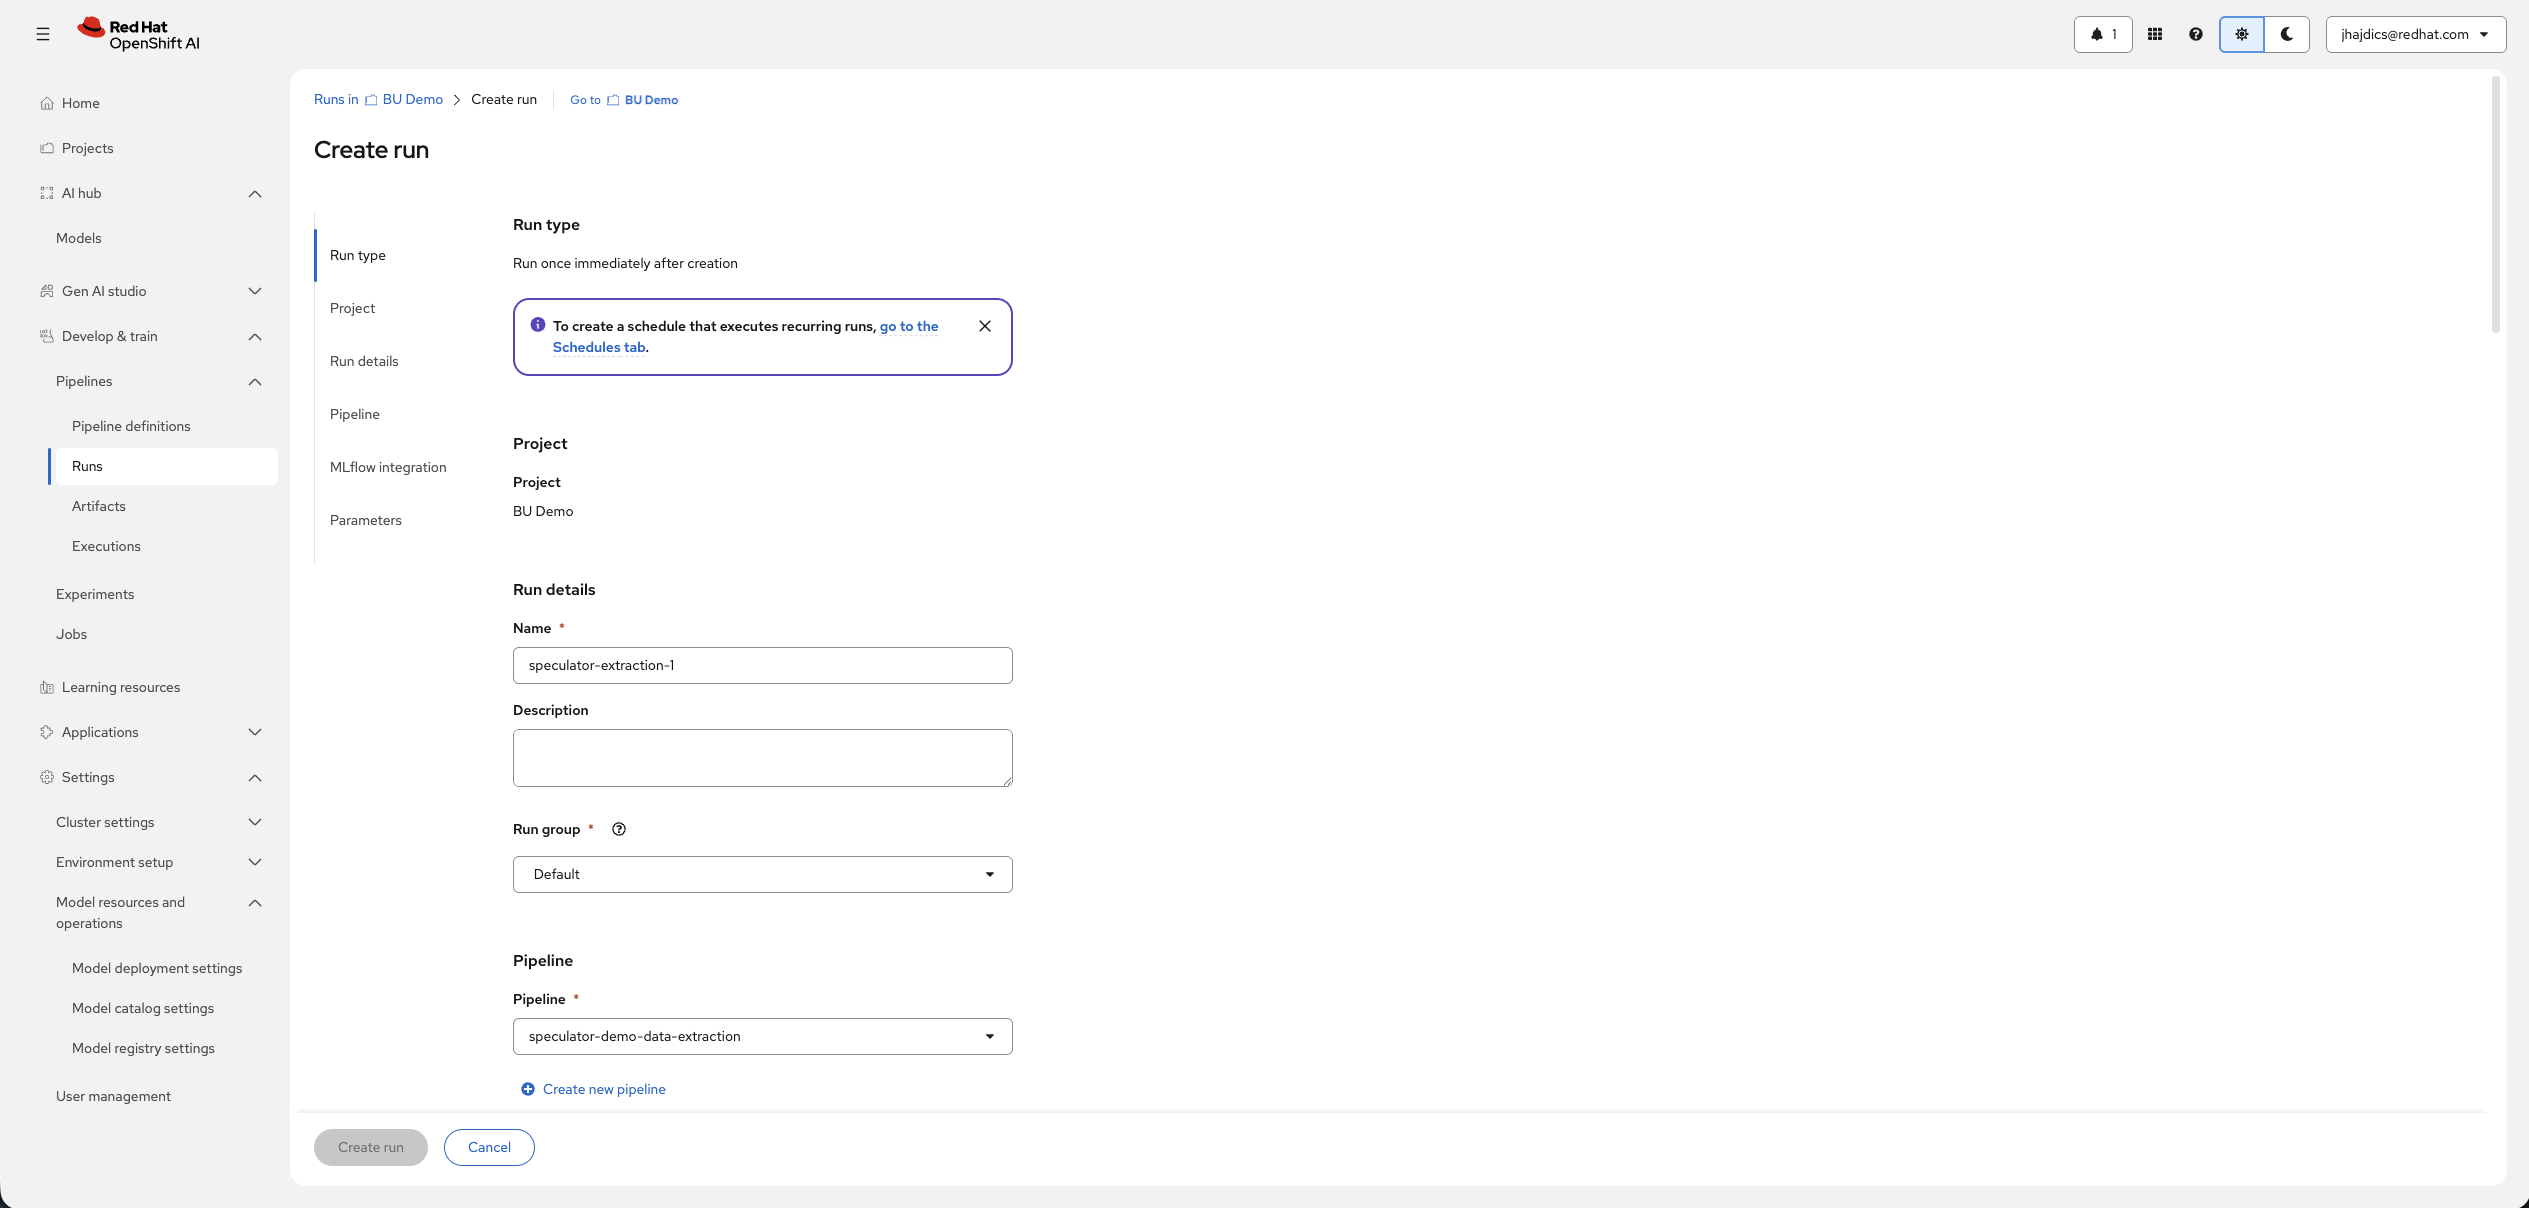
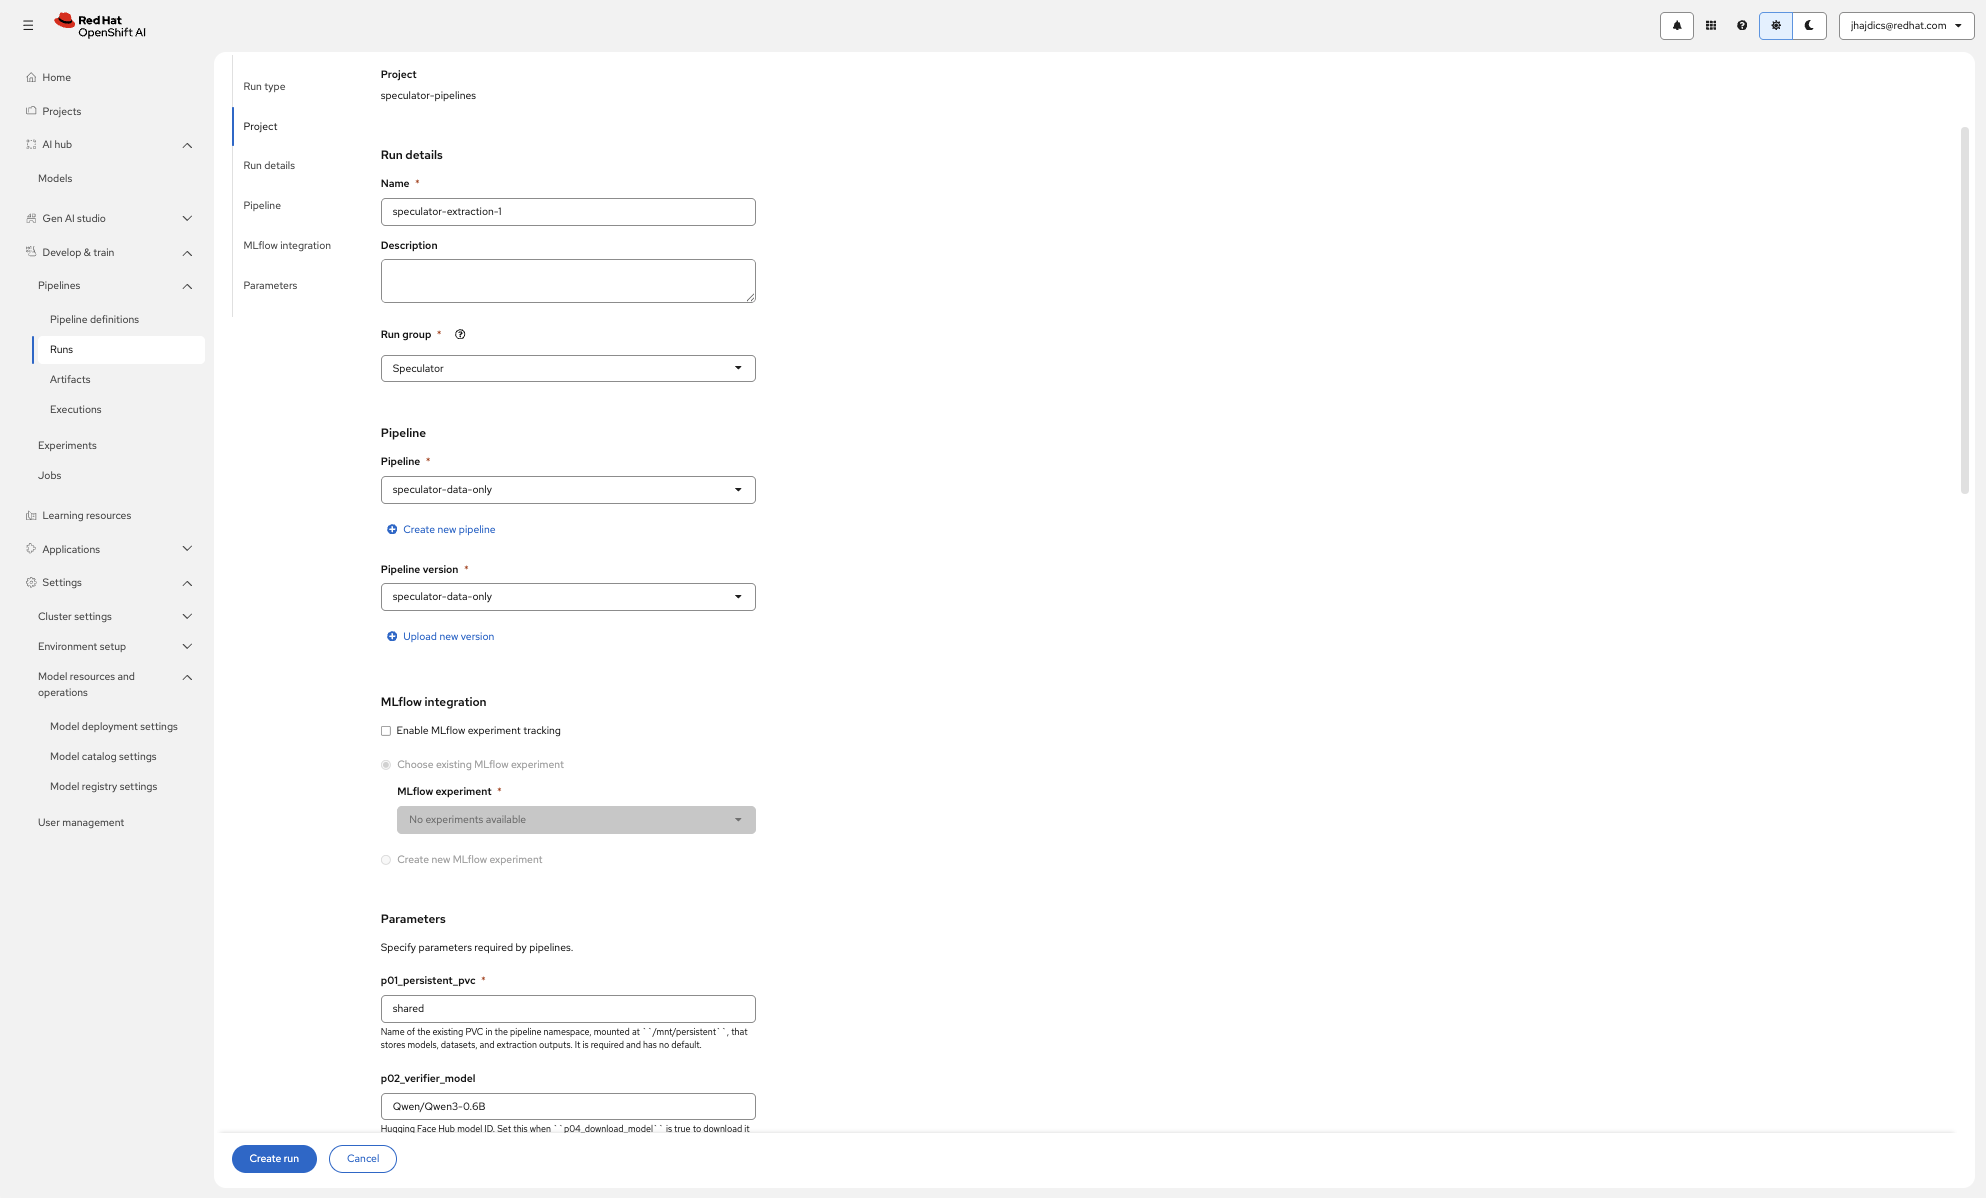
docs: refresh screenshots and correct dashboard paths
Replace the storage, registry and create-run captures, add the
Actions menu capture, and drop the eight screenshot TODOs.

The new captures showed three things the text had wrong: creating
a registry is an admin task under Settings > Model registry
settings, not AI Hub > Models > Registry; MLflow is a checked-by-
default 'Enable MLflow experiment tracking' checkbox, not a
toggle; and the run UI is a full-page form, not a dialog.

diff --git a/examples/fine-tuning/pipelines/rhoai-3.6/speculator/README.md b/examples/fine-tuning/pipelines/rhoai-3.6/speculator/README.md
@@ -309,10 +309,7 @@ EOF
 
 Replace `<your-rwx-storage-class>` with the name of a storage class on your cluster that provisions **ReadWriteMany** volumes — list what is available with `oc get storageclass`. Omitting `storageClassName` binds the PVC to the cluster's default class, which is often RWO-only and leaves the PVC stuck `Pending` or mounted read-only.
 
-![Project storage view with the RWX PVC](images/speculator-storage-pvc.png)
-
-> [!WARNING]
-> **SCREENSHOT TODO — REPLACE BEFORE MERGE.** This image shows storage inside *Create workbench*, but the step above documents the standalone **Cluster storage → Add cluster storage** route. Retake it from that route with the name (`shared`), size (100Gi), and an explicit **ReadWriteMany** storage-class selection visible.
+![Add cluster storage dialog with the name, RWX access mode and size filled in](images/speculator-storage-pvc.png)
 
 Verify it's bound:
 
@@ -435,12 +432,9 @@ If missing, follow the [SDK example's CTR instructions](../../../rhoai-3.6/specu
 
 The train-only pipeline **always** registers the draft — registry setup is mandatory there. Online and offline skip registration when the registry address is left empty.
 
-**1. Create or select a registry.** In the Red Hat OpenShift AI dashboard, open **AI Hub > Models > Model registries** and create or select a registry.
+**1. Select a registry — your administrator creates it.** Browse the registries you can reach under **AI Hub > Models > Registry**. Creating one happens on an organization-wide administrator page, **Settings > Model resources and operations > Model registry settings > Create model registry**, so ask your administrator if the registry you need does not exist yet. The creation dialog itself notes that permissions must be granted afterwards — that is step 3 below.
 
-![Model registry creation with REST URL](images/speculator-model-registry.png)
-
-> [!WARNING]
-> **SCREENSHOT TODO — REPLACE BEFORE MERGE.** This image shows an existing registry list, not the creation flow step 1 describes. Retake it from the **Create registry** dialog, or the moment the new registry appears with its REST URL visible.
+![Create model registry dialog](images/speculator-model-registry.png)
 
 **2. Find the registry's REST route.** Red Hat OpenShift AI gives each model registry its own dedicated REST route, named after the registry. The **dashboard** shows the route on the registry's page — that is the user path. Listing routes across all namespaces with `oc` needs cluster-wide read, which the [documented access](#access-you-need-and-what-your-administrator-must-provide) does not include — if you prefer the CLI, an administrator runs:
 
@@ -557,20 +551,16 @@ Work through [Prerequisites](#prerequisites): PVC, pipeline server, `kubernetes-
 1. On the **Pipeline definitions** page, click the imported pipeline.
 2. Open the **Actions** menu on the definition page and choose **Create run**.
 
-   > [!WARNING]
-   > **SCREENSHOT TODO — NEW (optional).** Consider adding a screenshot of the definition page's **Actions → Create run** menu here — customers now enter the run dialog through it, and no current image shows that path.
+   ![Actions menu on the pipeline definition page, with Create run](images/speculator-create-run-menu.png)
 
-3. In the run dialog:
+3. In the run form:
    - **Run name**: something meaningful, e.g. `speculator-extraction-1`
    - **Run group**: leave the default run group or create one — this only groups runs in the UI
-   - **MLflow tracking**: **disable it** (the toggle is on by default). These pipelines have not been tested with an MLflow experiment association, and leaving it on may cause the run to fail or behave unexpectedly.
+   - **MLflow integration**: clear the **Enable MLflow experiment tracking** checkbox — it is **checked by default**, so you have to untick it. These pipelines have not been tested with an MLflow experiment association, and leaving it on may cause the run to fail or behave unexpectedly.
    - **Parameters**: fill in the values from the mode's example table (linked below). Parameters appear in `p01…` order — booleans render as **True/False** dropdowns, and everything with a default can be left alone unless the table says otherwise.
 4. Click **Create run**.
 
-![Create run dialog with parameters](images/speculator-create-run.png)
-
-> [!WARNING]
-> **SCREENSHOT TODO — REPLACE BEFORE MERGE.** This image shows only run metadata. Retake it scrolled so the fields a customer actually enters are visible: **Run name**, **Run group**, the **MLflow tracking** toggle shown being disabled, and the first parameter fields with example values filled in.
+![Create run form showing Run details, Run group, MLflow integration left disabled, and the first parameters](images/speculator-create-run.png)
 
 The ready-to-copy parameter tables:
 

diff --git a/examples/fine-tuning/pipelines/rhoai-3.6/speculator/train-only/README.md b/examples/fine-tuning/pipelines/rhoai-3.6/speculator/train-only/README.md
@@ -60,7 +60,7 @@ Expect roughly 35–70 minutes end-to-end for the example-run configuration, dep
 
 Work through the [access checks](../README.md#access-you-need-and-what-your-administrator-must-provide) and the [shared prerequisites](../README.md#prerequisites), **all of them** — this pipeline additionally requires:
 
-- **Model Registry**: create/select one in the Red Hat OpenShift AI dashboard (**AI Hub > Models > Model registries**), then find its REST route — the registry's page in the dashboard shows it, which is the path available to you; the CLI equivalent (`oc get routes -A | grep rest`) needs cluster-wide read and is an administrator command. For a registry named `bu-registry` the route is `bu-registry-rest.apps.<cluster-domain>`. Set `p02_model_registry_address` to the full route URL including the `https://` scheme, with `p45_model_registry_port` = `443`. See the [common prerequisites](../README.md#model-registry-and-kserve-train-only--online--offline) for the full instructions and the in-cluster Service alternative.
+- **Model Registry**: select one under **AI Hub > Models > Registry** in the dashboard — creating a registry is an administrator task on the **Settings > Model resources and operations > Model registry settings** page. Then find its REST route — the registry's page in the dashboard shows it, which is the path available to you; the CLI equivalent (`oc get routes -A | grep rest`) needs cluster-wide read and is an administrator command. For a registry named `bu-registry` the route is `bu-registry-rest.apps.<cluster-domain>`. Set `p02_model_registry_address` to the full route URL including the `https://` scheme, with `p45_model_registry_port` = `443`. See the [common prerequisites](../README.md#model-registry-and-kserve-train-only--online--offline) for the full instructions and the in-cluster Service alternative.
 - **RoleBinding**: the pipeline ServiceAccount needs a RoleBinding to `registry-user-<registry-name>` in the registry namespace (command in the [common prerequisites](../README.md#model-registry-and-kserve-train-only--online--offline)).
 - **Serving namespace**: `p04_serving_namespace` must match the PVC namespace and have the required KServe permissions.
 - CTR `speculator-model-opt-cuda` (`p35_job_runtime` default).
@@ -118,12 +118,9 @@ This writes `pipelines/training/speculator/train_only/pipeline.yaml`.
 
 > [!WARNING]
 >
-> Disable **MLflow tracking** in the run dialog — the toggle is on by default. These pipelines have not been tested with an MLflow experiment association, and leaving it on may cause the run to fail or behave unexpectedly.
+> In the run form's **MLflow integration** step, clear the **Enable MLflow experiment tracking** checkbox — it is checked by default, so you have to untick it. These pipelines have not been tested with an MLflow experiment association, and leaving it on may cause the run to fail or behave unexpectedly.
 
-![Create run dialog with train-only parameters](../images/speculator-train-only-create-run.png)
-
-> [!WARNING]
-> **SCREENSHOT TODO — VERIFY BEFORE MERGE.** Retake if this image does not show the **Run group** field and the **MLflow tracking** toggle being disabled — the guide now tells customers to disable it, and the screenshot must match what they see.
+![Create run form with train-only parameters](../images/speculator-train-only-create-run.png)
 
 **Step 4 — start the run and watch it.** Click **Create run**. The stage-by-stage walkthrough — what each of the four tasks does and how long it takes — is in [The pipeline run from start to finish](#the-pipeline-run-from-start-to-finish); the common guide covers the [UI mechanics](../README.md#5-watch-the-run) of watching a run.
 
@@ -197,7 +194,7 @@ One more thing to set expectations before you judge a first run:
 
 ### Checking the registry entry
 
-After the run succeeds, the draft appears in the Model Registry: **AI Hub > Models > Model registries > your registry**, under the name you set in `p03_model_registry_name`, with the version from `p46_model_registry_version`.
+After the run succeeds, the draft appears in the Model Registry: **AI Hub > Models > Registry > your registry**, under the name you set in `p03_model_registry_name`, with the version from `p46_model_registry_version`.
 
 ![Model registry entry for the draft](../images/speculator-train-only-model-registry.png)
 

diff --git a/examples/fine-tuning/pipelines/rhoai-3.6/speculator/offline/README.md b/examples/fine-tuning/pipelines/rhoai-3.6/speculator/offline/README.md
@@ -178,12 +178,9 @@ This writes `pipelines/training/speculator/offline/pipeline.yaml`.
 
 > [!WARNING]
 >
-> Disable **MLflow tracking** in the run dialog — the toggle is on by default. These pipelines have not been tested with an MLflow experiment association, and leaving it on may cause the run to fail or behave unexpectedly.
+> In the run form's **MLflow integration** step, clear the **Enable MLflow experiment tracking** checkbox — it is checked by default, so you have to untick it. These pipelines have not been tested with an MLflow experiment association, and leaving it on may cause the run to fail or behave unexpectedly.
 
-![Create run dialog with offline parameters](../images/speculator-offline-create-run.png)
-
-> [!WARNING]
-> **SCREENSHOT TODO — VERIFY BEFORE MERGE.** Retake if this image does not show the **Run group** field and the **MLflow tracking** toggle being disabled — the guide now tells customers to disable it, and the screenshot must match what they see.
+![Create run form with offline parameters](../images/speculator-offline-create-run.png)
 
 **Step 4 — start the run and watch it.** Click **Create run**. The stage-by-stage walkthrough is in [The pipeline run from start to finish](#the-pipeline-run-from-start-to-finish); the common guide covers the [UI mechanics](../README.md#5-watch-the-run) of watching a run.
 
@@ -233,7 +230,7 @@ The evaluation task's metrics in the Red Hat OpenShift AI UI:
 
 ![Offline run evaluation metrics](../images/speculator-offline-evaluation.png)
 
-If you kept registration enabled (`p47_model_registry_address` set), the draft appears in the Model Registry afterwards under `p49_model_registry_name` / `p50_model_registry_version` — find it via **AI Hub > Models > Model registries > your registry**:
+If you kept registration enabled (`p47_model_registry_address` set), the draft appears in the Model Registry afterwards under `p49_model_registry_name` / `p50_model_registry_version` — find it via **AI Hub > Models > Registry > your registry**:
 
 ![Offline run registry entry](../images/speculator-offline-model-registry.png)
 

diff --git a/examples/fine-tuning/pipelines/rhoai-3.6/speculator/online/README.md b/examples/fine-tuning/pipelines/rhoai-3.6/speculator/online/README.md
@@ -126,12 +126,9 @@ This writes `pipelines/training/speculator/online/pipeline.yaml`.
 
 > [!WARNING]
 >
-> Disable **MLflow tracking** in the run dialog — the toggle is on by default. These pipelines have not been tested with an MLflow experiment association, and leaving it on may cause the run to fail or behave unexpectedly.
+> In the run form's **MLflow integration** step, clear the **Enable MLflow experiment tracking** checkbox — it is checked by default, so you have to untick it. These pipelines have not been tested with an MLflow experiment association, and leaving it on may cause the run to fail or behave unexpectedly.
 
-![Create run dialog with online parameters](../images/speculator-online-create-run.png)
-
-> [!WARNING]
-> **SCREENSHOT TODO — VERIFY BEFORE MERGE.** Retake if this image does not show the **Run group** field and the **MLflow tracking** toggle being disabled — the guide now tells customers to disable it, and the screenshot must match what they see.
+![Create run form with online parameters](../images/speculator-online-create-run.png)
 
 **Step 4 — start the run and watch it.** Click **Create run**. The stage-by-stage walkthrough is in [The pipeline run from start to finish](#the-pipeline-run-from-start-to-finish); the common guide covers the [UI mechanics](../README.md#5-watch-the-run) of watching a run.
 
@@ -173,7 +170,7 @@ The evaluation task's metrics in the Red Hat OpenShift AI UI:
 
 ![Online run evaluation metrics](../images/speculator-online-evaluation.png)
 
-If you kept registration enabled (`p43_model_registry_address` set), the draft appears in the Model Registry afterwards under `p45_model_registry_name` / `p46_model_registry_version` — find it via **AI Hub > Models > Model registries > your registry**:
+If you kept registration enabled (`p43_model_registry_address` set), the draft appears in the Model Registry afterwards under `p45_model_registry_name` / `p46_model_registry_version` — find it via **AI Hub > Models > Registry > your registry**:
 
 ![Online run registry entry](../images/speculator-online-model-registry.png)
 

diff --git a/examples/fine-tuning/pipelines/rhoai-3.6/speculator/data-extraction/README.md b/examples/fine-tuning/pipelines/rhoai-3.6/speculator/data-extraction/README.md
@@ -92,12 +92,9 @@ This writes `pipelines/training/speculator/data_extraction/pipeline.yaml`.
 
 > [!WARNING]
 >
-> Disable **MLflow tracking** in the run dialog — the toggle is on by default. These pipelines have not been tested with an MLflow experiment association, and leaving it on may cause the run to fail or behave unexpectedly.
+> In the run form's **MLflow integration** step, clear the **Enable MLflow experiment tracking** checkbox — it is checked by default, so you have to untick it. These pipelines have not been tested with an MLflow experiment association, and leaving it on may cause the run to fail or behave unexpectedly.
 
-![Create run dialog with data-extraction parameters](../images/speculator-data-extraction-create-run.png)
-
-> [!WARNING]
-> **SCREENSHOT TODO — VERIFY BEFORE MERGE.** Retake if this image does not show the **Run group** field and the **MLflow tracking** toggle being disabled — the guide now tells customers to disable it, and the screenshot must match what they see.
+![Create run form with data-extraction parameters](../images/speculator-data-extraction-create-run.png)
 
 **Step 4 — start the run and watch it.** Click **Create run**. The stage-by-stage walkthrough of what the graph does and how long each node takes is in [The pipeline run from start to finish](#the-pipeline-run-from-start-to-finish); the common guide covers the [UI mechanics](../README.md#5-watch-the-run) of watching a run. With the example-run values below (16 samples, Qwen3-0.6B, managed vLLM), expect the run to complete in minutes — most of it is the vLLM sidecar loading the verifier.
 
